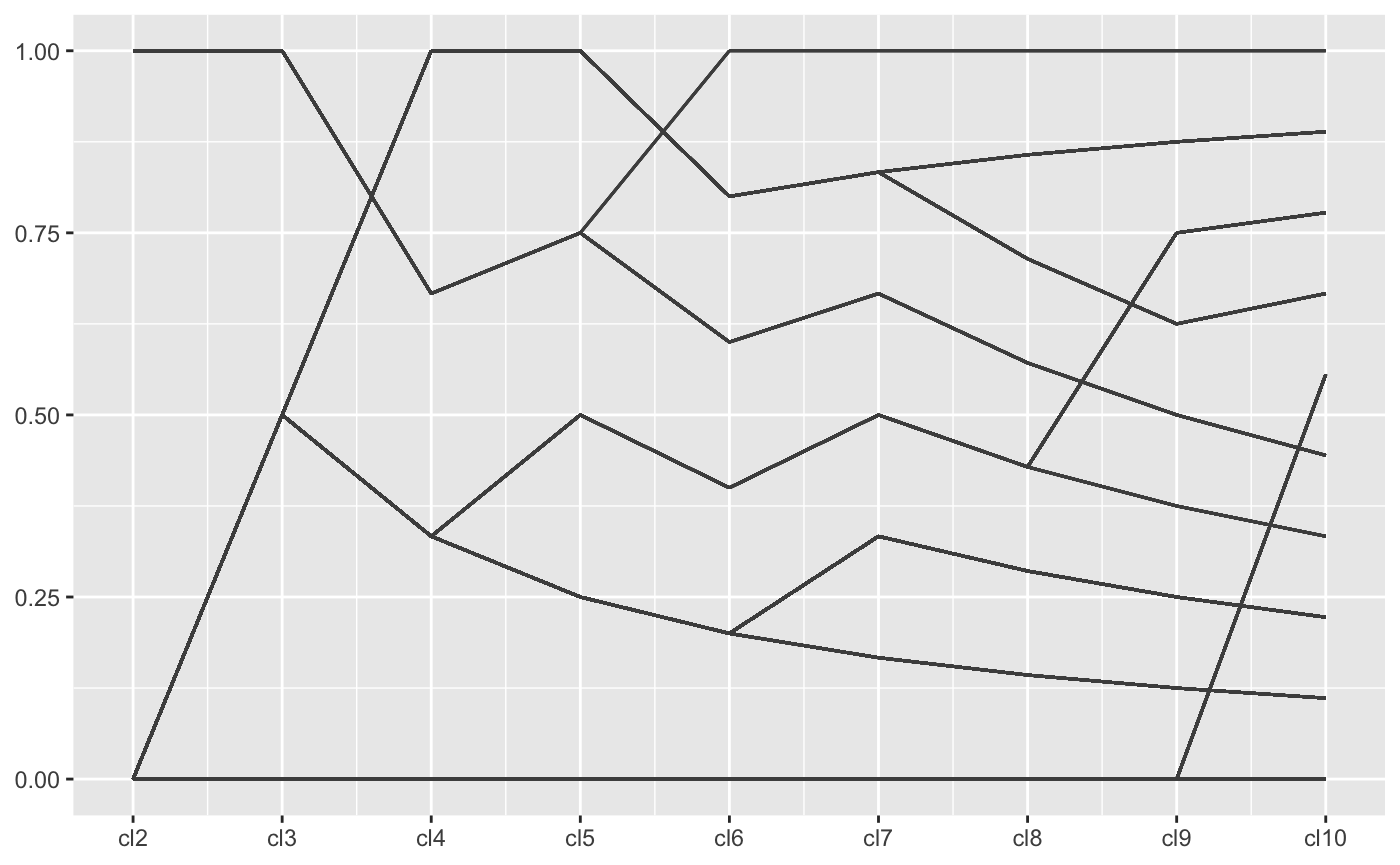
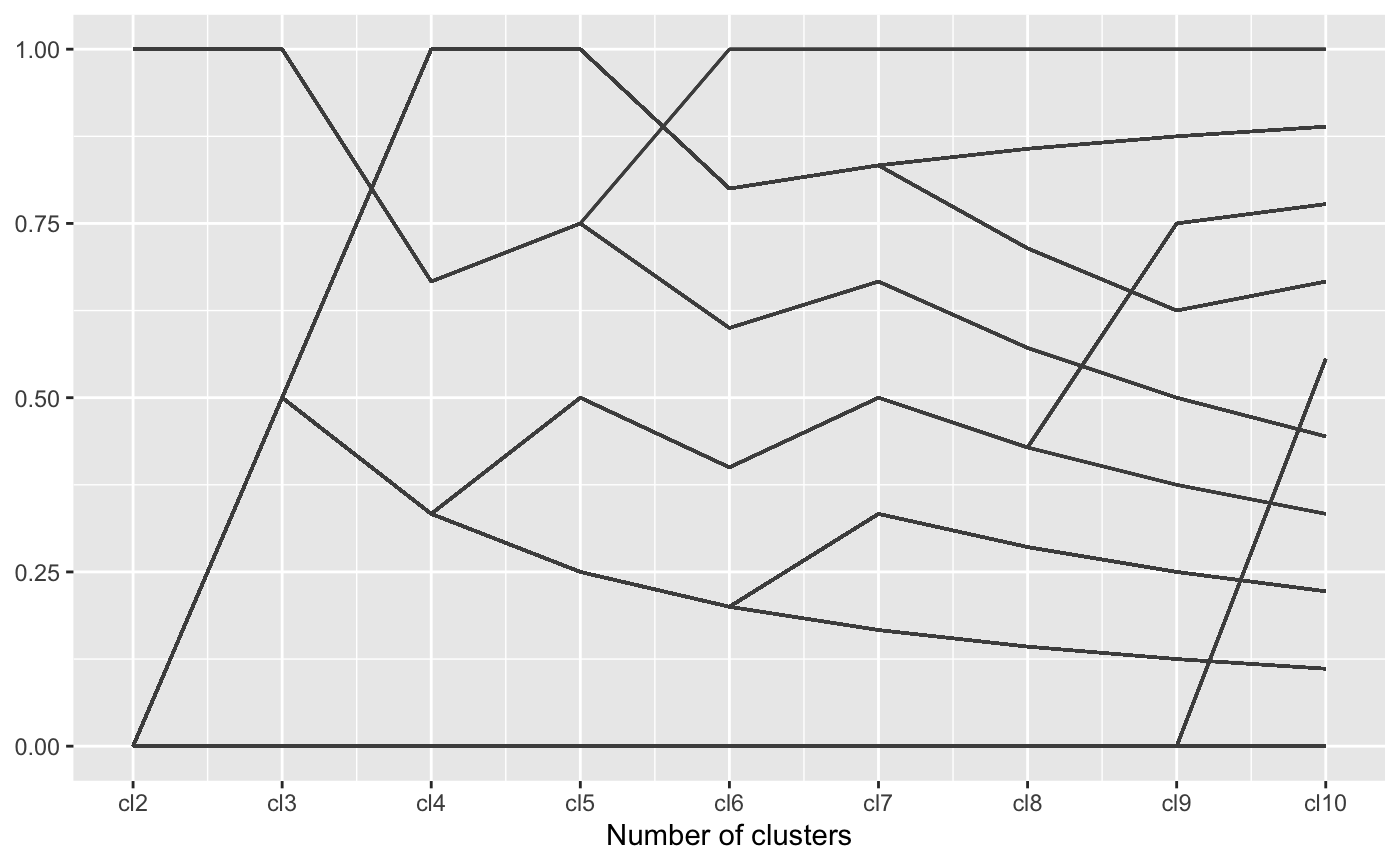
update website [skip ci]

diff --git a/docs/index.html b/docs/index.html
@@ -181,7 +181,7 @@
 <a class="sourceLine" id="cb10-11" title="11"><span class="st">  </span><span class="kw">scale_colour_gradient2</span>(<span class="st">"mpg"</span>, <span class="dt">mid=</span><span class="st">"grey50"</span>, <span class="dt">midpoint =</span> <span class="dv">20</span>) <span class="op">+</span></a>
 <a class="sourceLine" id="cb10-12" title="12"><span class="st">  </span><span class="kw">theme_bw</span>()</a></code></pre></div>
 <p><img src="index_files/figure-html/unnamed-chunk-10-1.png" width="700"></p>
-<p>What becomes obvious in this plot, is that fule consumption of each car measured in miles per gallons (mpg), encoded as the first variable in the plot and as color of the lines - is correlated strongly with all of the variables, not just the numeric variables. A large number of cylinders (cyl), a V-shaped engine (vs = 0), an automatic transmission (am = 0), a low number of forward gears and a high number of carburetors are related to a low value of mpg (red lines).</p>
+<p>What becomes obvious in this plot, is that fuel consumption of each car measured in miles per gallons (mpg), encoded as the first variable in the plot and as color of the lines - is correlated strongly with all of the variables, not just the numeric variables. A large number of cylinders (cyl), a V-shaped engine (vs = 0), an automatic transmission (am = 0), a low number of forward gears and a high number of carburetors are related to a low value of mpg (red lines).</p>
 </div>
 <div id="bigger-example" class="section level2">
 <h2 class="hasAnchor">
@@ -189,7 +189,7 @@
 <p>One application for generalized parallel coordinate plots is their use for visualizing clusters.</p>
 <div class="sourceCode" id="cb11"><pre class="sourceCode r"><code class="sourceCode r"><a class="sourceLine" id="cb11-1" title="1"><span class="kw"><a href="https://www.rdocumentation.org/packages/utils/topics/data">data</a></span>(nasa, <span class="dt">package =</span> <span class="st">"GGally"</span>)</a></code></pre></div>
 <p>The <code>nasa</code> data, available from the <code>GGally</code> package, was used in the 2006 ASA Expo. It consists of monthly measurements of several climate variables, such as cloud coverage, temperature, pressure, and ozone values, captured on a 24x24 grid across Central America between 1995 and 2000.</p>
-<p>The results from clustering on monthly measurements can then be summarized visually. What we see is that the clusters have a very distinct geographic pattern (tile plot).</p>
+<p>We grouped locations using all January and July measurements of all climate variables using a hierarchical clustering based on Ward’s distance. The resulting clusters can then be summarized visually. What we see is that the clusters have a very distinct geographic pattern (tile plot).</p>
 <div class="sourceCode" id="cb12"><pre class="sourceCode r"><code class="sourceCode r"><a class="sourceLine" id="cb12-1" title="1">wide <span class="op">%&gt;%</span><span class="st"> </span><span class="kw">separate</span>(id, <span class="dt">into=</span><span class="kw"><a href="https://www.rdocumentation.org/packages/base/topics/c">c</a></span>(<span class="st">"x"</span>, <span class="st">"y"</span>), <span class="dt">remove =</span> <span class="ot">FALSE</span>) <span class="op">%&gt;%</span></a>
 <a class="sourceLine" id="cb12-2" title="2"><span class="st">  </span><span class="kw">mutate</span>(<span class="dt">x =</span> <span class="kw"><a href="https://www.rdocumentation.org/packages/base/topics/numeric">as.numeric</a></span>(x), <span class="dt">y =</span> <span class="kw"><a href="https://www.rdocumentation.org/packages/base/topics/numeric">as.numeric</a></span>(y)) <span class="op">%&gt;%</span></a>
 <a class="sourceLine" id="cb12-3" title="3"><span class="st">  </span><span class="kw">ggplot</span>(<span class="kw">aes</span>(<span class="dt">x =</span> x, <span class="dt">y=</span>y, <span class="dt">fill=</span><span class="kw"><a href="https://www.rdocumentation.org/packages/base/topics/factor">factor</a></span>(cl7))) <span class="op">+</span></a>
@@ -197,7 +197,7 @@
 <a class="sourceLine" id="cb12-5" title="5"><span class="st">  </span><span class="kw">xlab</span>(<span class="st">"Latitude"</span>) <span class="op">+</span><span class="st"> </span><span class="kw">ylab</span>(<span class="st">"Longitude"</span>) <span class="op">+</span></a>
 <a class="sourceLine" id="cb12-6" title="6"><span class="st">  </span><span class="kw">coord_equal</span>()</a></code></pre></div>
 <p><img src="index_files/figure-html/unnamed-chunk-13-1.png" width="700"></p>
-<p>From the using a parallel coordinate plot we see that cloud coverage in low, medium and high altitude distinguishes quite succinctly between some of the clusters. (Relative) temperatures in January (1) and July (7) are very indicative to separate between clusters on the Southern and Northern hemisphere.</p>
+<p>From the parallel coordinate plot we see that cloud coverage in low, medium and high altitude distinguishes quite succinctly between some of the clusters. (Relative) temperatures in January (1) and July (7) are very indicative to separate between clusters on the Southern and Northern hemisphere.</p>
 <div class="sourceCode" id="cb13"><pre class="sourceCode r"><code class="sourceCode r"><a class="sourceLine" id="cb13-1" title="1">wide <span class="op">%&gt;%</span></a>
 <a class="sourceLine" id="cb13-2" title="2"><span class="st">  </span><span class="kw">ggplot</span>(<span class="kw">aes</span>(<span class="dt">vars=</span><span class="kw">vars</span>(<span class="dv">83</span><span class="op">:</span><span class="dv">94</span>))) <span class="op">+</span></a>
 <a class="sourceLine" id="cb13-3" title="3"><span class="st">  </span><span class="kw"><a href="reference/geom_pcp.html">geom_pcp</a></span>(<span class="kw">aes</span>(<span class="dt">colour=</span><span class="kw"><a href="https://www.rdocumentation.org/packages/base/topics/factor">factor</a></span>(cl7))) <span class="op">+</span><span class="st"> </span><span class="kw">facet_wrap</span>(<span class="op">~</span>cl7) <span class="op">+</span></a>
@@ -210,7 +210,8 @@
 <p>Needs more words …</p>
 <div class="sourceCode" id="cb15"><pre class="sourceCode r"><code class="sourceCode r"><a class="sourceLine" id="cb15-1" title="1">wide <span class="op">%&gt;%</span></a>
 <a class="sourceLine" id="cb15-2" title="2"><span class="st">  </span><span class="kw">ggplot</span>(<span class="kw">aes</span>(<span class="dt">vars=</span><span class="kw">vars</span>(<span class="dv">74</span><span class="op">:</span><span class="dv">82</span>))) <span class="op">+</span></a>
-<a class="sourceLine" id="cb15-3" title="3"><span class="st">  </span><span class="kw"><a href="reference/geom_pcp.html">geom_pcp</a></span>()</a></code></pre></div>
+<a class="sourceLine" id="cb15-3" title="3"><span class="st">  </span><span class="kw"><a href="reference/geom_pcp.html">geom_pcp</a></span>() <span class="op">+</span></a>
+<a class="sourceLine" id="cb15-4" title="4"><span class="st">  </span><span class="kw">xlab</span>(<span class="st">"Number of clusters"</span>)</a></code></pre></div>
 <p><img src="index_files/figure-html/unnamed-chunk-15-1.png" width="700"></p>
 <div class="sourceCode" id="cb16"><pre class="sourceCode r"><code class="sourceCode r"><a class="sourceLine" id="cb16-1" title="1">wide <span class="op">%&gt;%</span></a>
 <a class="sourceLine" id="cb16-2" title="2"><span class="st">  </span><span class="kw">mutate</span>(</a>
@@ -226,9 +227,9 @@
 <a class="sourceLine" id="cb16-12" title="12">  ) <span class="op">%&gt;%</span></a>
 <a class="sourceLine" id="cb16-13" title="13"><span class="st">  </span><span class="kw">ggplot</span>(<span class="kw">aes</span>(<span class="dt">vars=</span><span class="kw">vars</span>(<span class="dv">74</span><span class="op">:</span><span class="dv">82</span>))) <span class="op">+</span></a>
 <a class="sourceLine" id="cb16-14" title="14"><span class="st">  </span><span class="kw"><a href="reference/geom_pcp_box.html">geom_pcp_box</a></span>(<span class="dt">boxwidth=</span><span class="fl">0.1</span>) <span class="op">+</span></a>
-<a class="sourceLine" id="cb16-15" title="15"><span class="st">  </span><span class="kw"><a href="reference/geom_pcp.html">geom_pcp</a></span>(<span class="kw">aes</span>(<span class="dt">colour =</span> <span class="kw"><a href="https://www.rdocumentation.org/packages/base/topics/factor">factor</a></span>(cl10)), <span class="dt">alpha =</span> <span class="fl">0.25</span>, <span class="dt">boxwidth=</span><span class="fl">0.1</span>)</a></code></pre></div>
-<p><img src="index_files/figure-html/unnamed-chunk-15-2.png" width="700"></p>
-<p>See also: <a href="https://www.rdocumentation.org/packages/ggplot2/versions/0.9.2.1/topics/ggpcp" class="uri">https://www.rdocumentation.org/packages/ggplot2/versions/0.9.2.1/topics/ggpcp</a></p>
+<a class="sourceLine" id="cb16-15" title="15"><span class="st">  </span><span class="kw"><a href="reference/geom_pcp.html">geom_pcp</a></span>(<span class="kw">aes</span>(<span class="dt">colour =</span> <span class="kw"><a href="https://www.rdocumentation.org/packages/base/topics/factor">factor</a></span>(cl10)), <span class="dt">alpha =</span> <span class="fl">0.25</span>, <span class="dt">boxwidth=</span><span class="fl">0.1</span>) <span class="op">+</span></a>
+<a class="sourceLine" id="cb16-16" title="16"><span class="st">  </span><span class="kw">xlab</span>(<span class="st">"Number of clusters"</span>)</a></code></pre></div>
+<p><img src="index_files/figure-html/unnamed-chunk-16-1.png" width="700"></p>
 </div>
 </div>
 </div>
@@ -237,15 +238,16 @@
 <a href="#related-work" class="anchor"></a>Related work</h1>
 <p>Parallel coordinate plots have been implemented in analysis software since the mid 1980s (Inselberg 1985, Wegman 1990). Several packages in R are dedicated to visualizing parallel coordinate plots.</p>
 <p>Using base plots the main function for drawing parallel coordinate plots is <code>parcoord</code> implemented in MASS (Venables and Ripley 2004). The package <code>gclus</code> (Hurley 2019) implements <code>cparcoord</code> to include panel color as a representation of the strength of a correlation between neighboring axes.</p>
-<p>Within the ggplot2 environment there are several packages implementing parallel coordinate plots. For numeric variables there’s the function <code>ggparcoord</code> from the <code>GGally</code> package, for categorical variables the <code>ggparallel</code> package provides an implementation of pcp-like plots, such as the Hammock plot (Schonlau 2003) and parsets (Kosara et al, 2013).</p>
+<p>Within the ggplot2 environment there are several packages implementing parallel coordinate plots. For numeric variables there’s the function <code>ggparcoord</code> from the <code>GGally</code> package, for categorical variables the <code>ggparallel</code> package provides an implementation of PCP-like plots, such as the Hammock plot (Schonlau 2003) and parsets (Kosara et al, 2013).</p>
 <p>The <a href="https://github.com/rstats-gsoc/gsoc2017/wiki/bigPint%3A-Big-multivariate-data-plotted-interactively">bigPint</a> Google Summer of Code project 2017 implemented static and interactive versions of parallel coordinate plots within the framework of plotting large data interactively. These functions are meant for exploration and discovery and are not fully parameterized for their appearance.</p>
-</div>
-<div id="motivation-for-the-re-implementation" class="section level1">
-<h1 class="hasAnchor">
-<a href="#motivation-for-the-re-implementation" class="anchor"></a>Motivation for the Re-implementation</h1>
+<div id="motivation-for-the-re-implementation" class="section level2">
+<h2 class="hasAnchor">
+<a href="#motivation-for-the-re-implementation" class="anchor"></a>Motivation for the Re-implementation</h2>
 <p>As can be seen from the examples above, there are a lot of approaches to parallel coordinate plots, so why do we need another implementation?</p>
 <p>All of the implementations described above have in common that they describe highly specialized plots - in the sense that there are tens of parameters describing construction, type, and appearance of the plot. While giving the user some flexibility this way, this approach goes against the modular approach of the tidyverse, and in particular against the layered approach of ggplot2, i.e. at best the approaches make use of ggplot2, but they do not make use of the ideas behind ggplot2.</p>
 <p>The main idea of <code>ggpcp</code> is that we separate the data transformations from the visualization, i.e. rather than working with a single function to draw a plot, we are providing a set of functions that work together.</p>
+<p>This idea is not new - a function under the very same name was at some point part of ggplot2 (see <a href="https://www.rdocumentation.org/packages/ggplot2/versions/0.9.2.1/topics/ggpcp" class="uri">https://www.rdocumentation.org/packages/ggplot2/versions/0.9.2.1/topics/ggpcp</a>), but at the time the implementation stalled and was eventually removed from ggplot2.</p>
+</div>
 <div id="references" class="section level2">
 <h2 class="hasAnchor">
 <a href="#references" class="anchor"></a>References</h2>

diff --git a/docs/reference/geom_pcp.html b/docs/reference/geom_pcp.html
@@ -255,6 +255,24 @@ especially for lines outside factor blocks(for <code>hierarchical</code> only), 
 </ul>
     
 
+    <h2 class="hasAnchor" id="examples"><a class="anchor" href="#examples"></a>Examples</h2>
+    <pre class="examples"><div class='input'><span class='fu'><a href='https://www.rdocumentation.org/packages/base/topics/library'>library</a></span>(<span class='no'>ggplot2</span>)
+<span class='fu'><a href='https://www.rdocumentation.org/packages/base/topics/library'>library</a></span>(<span class='no'>dplyr</span>)</div><div class='output co'>#&gt; <span class='message'></span>
+#&gt; <span class='message'>Attaching package: ‘dplyr’</span></div><div class='output co'>#&gt; <span class='message'>The following objects are masked from ‘package:stats’:</span>
+#&gt; <span class='message'></span>
+#&gt; <span class='message'>    filter, lag</span></div><div class='output co'>#&gt; <span class='message'>The following objects are masked from ‘package:base’:</span>
+#&gt; <span class='message'></span>
+#&gt; <span class='message'>    intersect, setdiff, setequal, union</span></div><div class='input'><span class='fu'><a href='https://www.rdocumentation.org/packages/utils/topics/data'>data</a></span>(<span class='no'>mtcars</span>)
+<span class='no'>mtcars</span> <span class='kw'>%&gt;%</span>
+<span class='fu'><a href='https://dplyr.tidyverse.org/reference/mutate.html'>mutate</a></span>(<span class='kw'>cyl</span> <span class='kw'>=</span> <span class='fu'><a href='https://www.rdocumentation.org/packages/base/topics/factor'>factor</a></span>(<span class='no'>cyl</span>),
+      <span class='kw'>vs</span> <span class='kw'>=</span> <span class='fu'><a href='https://www.rdocumentation.org/packages/base/topics/factor'>factor</a></span>(<span class='no'>vs</span>),
+      <span class='kw'>am</span> <span class='kw'>=</span> <span class='fu'><a href='https://www.rdocumentation.org/packages/base/topics/factor'>factor</a></span>(<span class='no'>am</span>),
+      <span class='kw'>gear</span> <span class='kw'>=</span> <span class='fu'><a href='https://www.rdocumentation.org/packages/base/topics/factor'>factor</a></span>(<span class='no'>gear</span>)) <span class='kw'>%&gt;%</span>
+ <span class='fu'><a href='https://ggplot2.tidyverse.org/reference/ggplot.html'>ggplot</a></span>(<span class='fu'><a href='https://ggplot2.tidyverse.org/reference/aes.html'>aes</a></span>(<span class='kw'>vars</span> <span class='kw'>=</span> <span class='fu'><a href='https://ggplot2.tidyverse.org/reference/vars.html'>vars</a></span>(<span class='no'>cyl</span>, <span class='no'>vs</span>:<span class='no'>gear</span>))) +
+ <span class='fu'>geom_pcp</span>(<span class='fu'><a href='https://ggplot2.tidyverse.org/reference/aes.html'>aes</a></span>(<span class='kw'>color</span> <span class='kw'>=</span> <span class='no'>vs</span>), <span class='kw'>boxwidth</span> <span class='kw'>=</span> <span class='fl'>0.2</span>, <span class='kw'>breakpoint</span> <span class='kw'>=</span> <span class='fl'>2</span>:<span class='fl'>3</span>) +
+ <span class='fu'><a href='geom_pcp_box.html'>geom_pcp_box</a></span>(<span class='kw'>boxwidth</span> <span class='kw'>=</span> <span class='fl'>0.2</span>) +
+ <span class='fu'><a href='geom_pcp_band.html'>geom_pcp_band</a></span>(<span class='kw'>boxwidth</span> <span class='kw'>=</span> <span class='fl'>0.2</span>, <span class='kw'>breakpoint</span> <span class='kw'>=</span> <span class='fl'>2</span>:<span class='fl'>3</span>) +
+ <span class='fu'><a href='geom_pcp_text.html'>geom_pcp_text</a></span>(<span class='kw'>boxwidth</span> <span class='kw'>=</span> <span class='fl'>0.2</span>)</div><div class='img'><img src='geom_pcp-1.png' alt='' width='700' height='433' /></div></pre>
   </div>
   <div class="col-md-3 hidden-xs hidden-sm" id="sidebar">
     <h2>Contents</h2>
@@ -262,7 +280,9 @@ especially for lines outside factor blocks(for <code>hierarchical</code> only), 
       <li><a href="#arguments">Arguments</a></li>
       
       <li><a href="#details">Details</a></li>
-          </ul>
+      
+      <li><a href="#examples">Examples</a></li>
+    </ul>
 
   </div>
 </div>

diff --git a/docs/reference/geom_pcp_band.html b/docs/reference/geom_pcp_band.html
@@ -204,12 +204,28 @@ the default plot specification, e.g. [borders()].</p></td>
     </table>
     
 
+    <h2 class="hasAnchor" id="examples"><a class="anchor" href="#examples"></a>Examples</h2>
+    <pre class="examples"><div class='input'><span class='fu'><a href='https://www.rdocumentation.org/packages/base/topics/library'>library</a></span>(<span class='no'>ggplot2</span>)
+<span class='fu'><a href='https://www.rdocumentation.org/packages/base/topics/library'>library</a></span>(<span class='no'>dplyr</span>)
+<span class='fu'><a href='https://www.rdocumentation.org/packages/utils/topics/data'>data</a></span>(<span class='no'>mtcars</span>)
+<span class='no'>mtcars</span> <span class='kw'>%&gt;%</span>
+<span class='fu'><a href='https://dplyr.tidyverse.org/reference/mutate.html'>mutate</a></span>(<span class='kw'>cyl</span> <span class='kw'>=</span> <span class='fu'><a href='https://www.rdocumentation.org/packages/base/topics/factor'>factor</a></span>(<span class='no'>cyl</span>),
+      <span class='kw'>vs</span> <span class='kw'>=</span> <span class='fu'><a href='https://www.rdocumentation.org/packages/base/topics/factor'>factor</a></span>(<span class='no'>vs</span>),
+      <span class='kw'>am</span> <span class='kw'>=</span> <span class='fu'><a href='https://www.rdocumentation.org/packages/base/topics/factor'>factor</a></span>(<span class='no'>am</span>),
+      <span class='kw'>gear</span> <span class='kw'>=</span> <span class='fu'><a href='https://www.rdocumentation.org/packages/base/topics/factor'>factor</a></span>(<span class='no'>gear</span>)) <span class='kw'>%&gt;%</span>
+ <span class='fu'><a href='https://ggplot2.tidyverse.org/reference/ggplot.html'>ggplot</a></span>(<span class='fu'><a href='https://ggplot2.tidyverse.org/reference/aes.html'>aes</a></span>(<span class='kw'>vars</span> <span class='kw'>=</span> <span class='fu'><a href='https://ggplot2.tidyverse.org/reference/vars.html'>vars</a></span>(<span class='no'>cyl</span>, <span class='no'>vs</span>:<span class='no'>gear</span>))) +
+ <span class='fu'><a href='geom_pcp.html'>geom_pcp</a></span>(<span class='fu'><a href='https://ggplot2.tidyverse.org/reference/aes.html'>aes</a></span>(<span class='kw'>color</span> <span class='kw'>=</span> <span class='no'>vs</span>), <span class='kw'>boxwidth</span> <span class='kw'>=</span> <span class='fl'>0.2</span>, <span class='kw'>breakpoint</span> <span class='kw'>=</span> <span class='fl'>2</span>:<span class='fl'>3</span>) +
+ <span class='fu'><a href='geom_pcp_box.html'>geom_pcp_box</a></span>(<span class='kw'>boxwidth</span> <span class='kw'>=</span> <span class='fl'>0.2</span>) +
+ <span class='fu'>geom_pcp_band</span>(<span class='kw'>boxwidth</span> <span class='kw'>=</span> <span class='fl'>0.2</span>, <span class='kw'>breakpoint</span> <span class='kw'>=</span> <span class='fl'>2</span>:<span class='fl'>3</span>) +
+ <span class='fu'><a href='geom_pcp_text.html'>geom_pcp_text</a></span>(<span class='kw'>boxwidth</span> <span class='kw'>=</span> <span class='fl'>0.2</span>)</div><div class='img'><img src='geom_pcp_band-1.png' alt='' width='700' height='433' /></div></pre>
   </div>
   <div class="col-md-3 hidden-xs hidden-sm" id="sidebar">
     <h2>Contents</h2>
     <ul class="nav nav-pills nav-stacked">
       <li><a href="#arguments">Arguments</a></li>
-                </ul>
+            
+      <li><a href="#examples">Examples</a></li>
+    </ul>
 
   </div>
 </div>

diff --git a/docs/reference/geom_pcp_box.html b/docs/reference/geom_pcp_box.html
@@ -200,12 +200,28 @@ the default plot specification, e.g. [borders()].</p></td>
     </table>
     
 
+    <h2 class="hasAnchor" id="examples"><a class="anchor" href="#examples"></a>Examples</h2>
+    <pre class="examples"><div class='input'><span class='fu'><a href='https://www.rdocumentation.org/packages/base/topics/library'>library</a></span>(<span class='no'>ggplot2</span>)
+<span class='fu'><a href='https://www.rdocumentation.org/packages/base/topics/library'>library</a></span>(<span class='no'>dplyr</span>)
+<span class='fu'><a href='https://www.rdocumentation.org/packages/utils/topics/data'>data</a></span>(<span class='no'>mtcars</span>)
+<span class='no'>mtcars</span> <span class='kw'>%&gt;%</span>
+<span class='fu'><a href='https://dplyr.tidyverse.org/reference/mutate.html'>mutate</a></span>(<span class='kw'>cyl</span> <span class='kw'>=</span> <span class='fu'><a href='https://www.rdocumentation.org/packages/base/topics/factor'>factor</a></span>(<span class='no'>cyl</span>),
+      <span class='kw'>vs</span> <span class='kw'>=</span> <span class='fu'><a href='https://www.rdocumentation.org/packages/base/topics/factor'>factor</a></span>(<span class='no'>vs</span>),
+      <span class='kw'>am</span> <span class='kw'>=</span> <span class='fu'><a href='https://www.rdocumentation.org/packages/base/topics/factor'>factor</a></span>(<span class='no'>am</span>),
+      <span class='kw'>gear</span> <span class='kw'>=</span> <span class='fu'><a href='https://www.rdocumentation.org/packages/base/topics/factor'>factor</a></span>(<span class='no'>gear</span>)) <span class='kw'>%&gt;%</span>
+ <span class='fu'><a href='https://ggplot2.tidyverse.org/reference/ggplot.html'>ggplot</a></span>(<span class='fu'><a href='https://ggplot2.tidyverse.org/reference/aes.html'>aes</a></span>(<span class='kw'>vars</span> <span class='kw'>=</span> <span class='fu'><a href='https://ggplot2.tidyverse.org/reference/vars.html'>vars</a></span>(<span class='no'>cyl</span>, <span class='no'>vs</span>:<span class='no'>gear</span>))) +
+ <span class='fu'><a href='geom_pcp.html'>geom_pcp</a></span>(<span class='fu'><a href='https://ggplot2.tidyverse.org/reference/aes.html'>aes</a></span>(<span class='kw'>color</span> <span class='kw'>=</span> <span class='no'>vs</span>), <span class='kw'>boxwidth</span> <span class='kw'>=</span> <span class='fl'>0.2</span>, <span class='kw'>breakpoint</span> <span class='kw'>=</span> <span class='fl'>2</span>:<span class='fl'>3</span>) +
+ <span class='fu'>geom_pcp_box</span>(<span class='kw'>boxwidth</span> <span class='kw'>=</span> <span class='fl'>0.2</span>) +
+ <span class='fu'><a href='geom_pcp_band.html'>geom_pcp_band</a></span>(<span class='kw'>boxwidth</span> <span class='kw'>=</span> <span class='fl'>0.2</span>, <span class='kw'>breakpoint</span> <span class='kw'>=</span> <span class='fl'>2</span>:<span class='fl'>3</span>) +
+ <span class='fu'><a href='geom_pcp_text.html'>geom_pcp_text</a></span>(<span class='kw'>boxwidth</span> <span class='kw'>=</span> <span class='fl'>0.2</span>)</div><div class='img'><img src='geom_pcp_box-1.png' alt='' width='700' height='433' /></div></pre>
   </div>
   <div class="col-md-3 hidden-xs hidden-sm" id="sidebar">
     <h2>Contents</h2>
     <ul class="nav nav-pills nav-stacked">
       <li><a href="#arguments">Arguments</a></li>
-                </ul>
+            
+      <li><a href="#examples">Examples</a></li>
+    </ul>
 
   </div>
 </div>

diff --git a/docs/reference/geom_pcp_text.html b/docs/reference/geom_pcp_text.html
@@ -228,12 +228,28 @@ same layer will not be plotted.</p></td>
     </table>
     
 
+    <h2 class="hasAnchor" id="examples"><a class="anchor" href="#examples"></a>Examples</h2>
+    <pre class="examples"><div class='input'><span class='fu'><a href='https://www.rdocumentation.org/packages/base/topics/library'>library</a></span>(<span class='no'>ggplot2</span>)
+<span class='fu'><a href='https://www.rdocumentation.org/packages/base/topics/library'>library</a></span>(<span class='no'>dplyr</span>)
+<span class='fu'><a href='https://www.rdocumentation.org/packages/utils/topics/data'>data</a></span>(<span class='no'>mtcars</span>)
+<span class='no'>mtcars</span> <span class='kw'>%&gt;%</span>
+<span class='fu'><a href='https://dplyr.tidyverse.org/reference/mutate.html'>mutate</a></span>(<span class='kw'>cyl</span> <span class='kw'>=</span> <span class='fu'><a href='https://www.rdocumentation.org/packages/base/topics/factor'>factor</a></span>(<span class='no'>cyl</span>),
+      <span class='kw'>vs</span> <span class='kw'>=</span> <span class='fu'><a href='https://www.rdocumentation.org/packages/base/topics/factor'>factor</a></span>(<span class='no'>vs</span>),
+      <span class='kw'>am</span> <span class='kw'>=</span> <span class='fu'><a href='https://www.rdocumentation.org/packages/base/topics/factor'>factor</a></span>(<span class='no'>am</span>),
+      <span class='kw'>gear</span> <span class='kw'>=</span> <span class='fu'><a href='https://www.rdocumentation.org/packages/base/topics/factor'>factor</a></span>(<span class='no'>gear</span>)) <span class='kw'>%&gt;%</span>
+ <span class='fu'><a href='https://ggplot2.tidyverse.org/reference/ggplot.html'>ggplot</a></span>(<span class='fu'><a href='https://ggplot2.tidyverse.org/reference/aes.html'>aes</a></span>(<span class='kw'>vars</span> <span class='kw'>=</span> <span class='fu'><a href='https://ggplot2.tidyverse.org/reference/vars.html'>vars</a></span>(<span class='no'>cyl</span>, <span class='no'>vs</span>:<span class='no'>gear</span>))) +
+ <span class='fu'><a href='geom_pcp.html'>geom_pcp</a></span>(<span class='fu'><a href='https://ggplot2.tidyverse.org/reference/aes.html'>aes</a></span>(<span class='kw'>color</span> <span class='kw'>=</span> <span class='no'>vs</span>), <span class='kw'>boxwidth</span> <span class='kw'>=</span> <span class='fl'>0.2</span>, <span class='kw'>breakpoint</span> <span class='kw'>=</span> <span class='fl'>2</span>:<span class='fl'>3</span>) +
+ <span class='fu'><a href='geom_pcp_box.html'>geom_pcp_box</a></span>(<span class='kw'>boxwidth</span> <span class='kw'>=</span> <span class='fl'>0.2</span>) +
+ <span class='fu'><a href='geom_pcp_band.html'>geom_pcp_band</a></span>(<span class='kw'>boxwidth</span> <span class='kw'>=</span> <span class='fl'>0.2</span>, <span class='kw'>breakpoint</span> <span class='kw'>=</span> <span class='fl'>2</span>:<span class='fl'>3</span>) +
+ <span class='fu'>geom_pcp_text</span>(<span class='kw'>boxwidth</span> <span class='kw'>=</span> <span class='fl'>0.2</span>)</div><div class='img'><img src='geom_pcp_text-1.png' alt='' width='700' height='433' /></div></pre>
   </div>
   <div class="col-md-3 hidden-xs hidden-sm" id="sidebar">
     <h2>Contents</h2>
     <ul class="nav nav-pills nav-stacked">
       <li><a href="#arguments">Arguments</a></li>
-                </ul>
+            
+      <li><a href="#examples">Examples</a></li>
+    </ul>
 
   </div>
 </div>

diff --git a/README.md b/README.md
@@ -1,7 +1,7 @@
 ---
 title: "Generalized parallel coordinate plots with ggpcp"
 author: "Yawei Ge, Heike Hofmann"
-date: "August 21, 2019"
+date: "September 03, 2019"
 output: 
   html_document:
     keep_md: true
@@ -181,7 +181,7 @@ mtcars %>%
 
 ![](README_files/figure-html/unnamed-chunk-10-1.png)<!-- -->
 
-What becomes obvious in this plot, is that fule consumption of each car measured in miles per gallons (mpg), encoded as the first variable in the plot and as color of the lines - is correlated strongly with all of the variables, not just the numeric variables. A large number of cylinders (cyl), a V-shaped engine (vs = 0), an automatic transmission (am = 0), a low number of forward gears and a high number of carburetors are related to a low value of mpg (red lines).
+What becomes obvious in this plot, is that fuel consumption of each car measured in miles per gallons (mpg), encoded as the first variable in the plot and as color of the lines - is correlated strongly with all of the variables, not just the numeric variables. A large number of cylinders (cyl), a V-shaped engine (vs = 0), an automatic transmission (am = 0), a low number of forward gears and a high number of carburetors are related to a low value of mpg (red lines).
 
 ## Bigger Example
 
@@ -194,7 +194,8 @@ data(nasa, package = "GGally")
 
 The `nasa` data, available from the `GGally` package, was used in the 2006 ASA Expo. It consists of monthly measurements of several climate variables, such as cloud coverage, temperature, pressure, and ozone values, captured on a 24x24 grid across Central America between 1995 and 2000.
 
-The results from clustering on monthly measurements can then be summarized visually. What we see is that the clusters have a very distinct geographic pattern (tile plot). 
+We grouped locations using all January and July measurements of all climate variables using a hierarchical clustering based on Ward's distance.
+The resulting clusters can then be summarized visually. What we see is that the clusters have a very distinct geographic pattern (tile plot). 
 
 
 
@@ -210,7 +211,7 @@ wide %>% separate(id, into=c("x", "y"), remove = FALSE) %>%
 
 ![](README_files/figure-html/unnamed-chunk-13-1.png)<!-- -->
 
-From the using a parallel coordinate plot we see that cloud coverage in low, medium and high altitude distinguishes quite succinctly between some of the clusters. (Relative) temperatures in January (1) and July (7) are very indicative to separate between clusters on the Southern and Northern hemisphere. 
+From the parallel coordinate plot we see that cloud coverage in low, medium and high altitude distinguishes quite succinctly between some of the clusters. (Relative) temperatures in January (1) and July (7) are very indicative to separate between clusters on the Southern and Northern hemisphere. 
 
 
 ```r
@@ -235,10 +236,12 @@ Needs more words ...
 ```r
 wide %>%
   ggplot(aes(vars=vars(74:82))) +
-  geom_pcp()
+  geom_pcp() +
+  xlab("Number of clusters")
 ```
 
 ![](README_files/figure-html/unnamed-chunk-15-1.png)<!-- -->
+The genralized parallel coordinate plots, similar to what Schonlau (2002, and 2004) coined the clustergram:
 
 ```r
 wide %>%
@@ -255,13 +258,13 @@ wide %>%
   ) %>%
   ggplot(aes(vars=vars(74:82))) +
   geom_pcp_box(boxwidth=0.1) +
-  geom_pcp(aes(colour = factor(cl10)), alpha = 0.25, boxwidth=0.1)
+  geom_pcp(aes(colour = factor(cl10)), alpha = 0.25, boxwidth=0.1) +
+  xlab("Number of clusters")
 ```
 
-![](README_files/figure-html/unnamed-chunk-15-2.png)<!-- -->
+![](README_files/figure-html/unnamed-chunk-16-1.png)<!-- -->
 
 
-See also: https://www.rdocumentation.org/packages/ggplot2/versions/0.9.2.1/topics/ggpcp
 
 # Related work
 
@@ -269,12 +272,12 @@ Parallel coordinate plots have been implemented in analysis software since the m
 
 Using base plots the main function for drawing parallel coordinate plots is `parcoord` implemented in MASS (Venables and Ripley 2004). The package `gclus` (Hurley 2019) implements `cparcoord` to include panel color as a representation of the strength of a correlation between neighboring axes.
 
-Within the ggplot2 environment there are several packages implementing parallel coordinate plots. For numeric variables there's the function `ggparcoord` from the `GGally` package, for categorical variables the `ggparallel` package provides an implementation of pcp-like plots, such as the Hammock plot (Schonlau 2003) and parsets (Kosara et al, 2013).
+Within the ggplot2 environment there are several packages implementing parallel coordinate plots. For numeric variables there's the function `ggparcoord` from the `GGally` package, for categorical variables the `ggparallel` package provides an implementation of PCP-like plots, such as the Hammock plot (Schonlau 2003) and parsets (Kosara et al, 2013).
 
 The [bigPint](https://github.com/rstats-gsoc/gsoc2017/wiki/bigPint%3A-Big-multivariate-data-plotted-interactively) Google Summer of Code project  2017 implemented static and interactive versions of parallel coordinate plots within the framework of plotting large data interactively. These functions are meant for exploration and discovery and are not fully parameterized for their appearance.
 
 
-# Motivation for the Re-implementation
+## Motivation for the Re-implementation
 
 As can be seen from the examples above, there are a lot of approaches to parallel coordinate plots, so why do we need another implementation?
 
@@ -282,6 +285,7 @@ All of the implementations described above have in common that they describe hig
 
 The main idea of `ggpcp` is that we separate the data transformations from the visualization, i.e. rather than working with a single function to draw a plot, we are providing a set of functions that work together.
 
+This idea is not new - a function under the very same name was at some point part of ggplot2 (see https://www.rdocumentation.org/packages/ggplot2/versions/0.9.2.1/topics/ggpcp), but at the time the implementation stalled and was eventually removed from ggplot2.
 
 ## References
 
